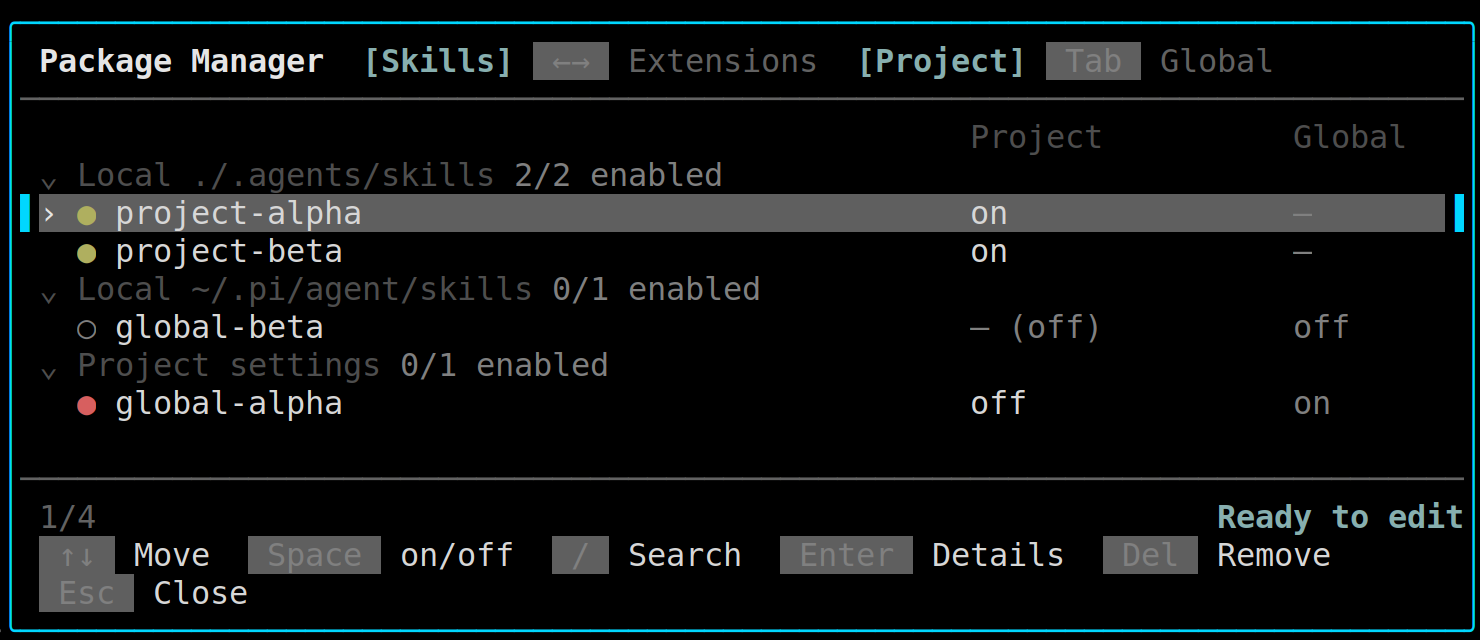
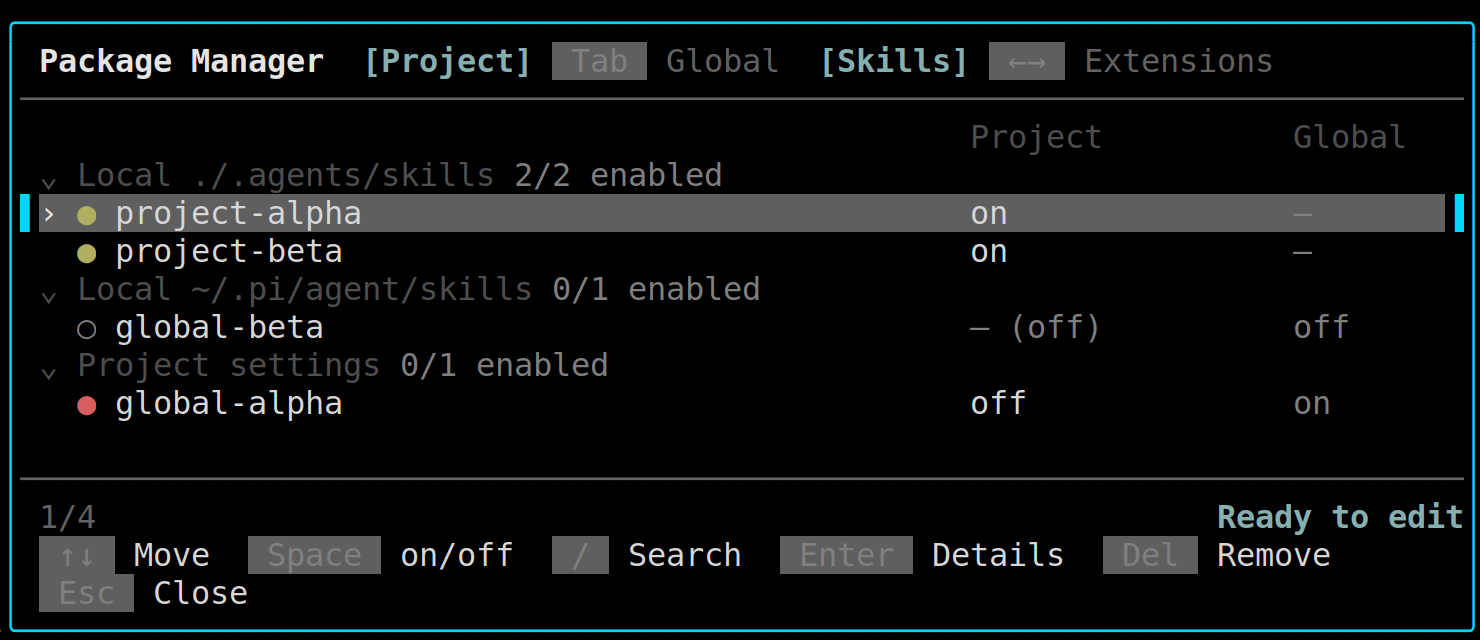
Put scope selection first in the header
Show Project/Global with its Tab key before Skills/Extensions and arrow keys.

Changed region(s): [[0.2486, 0.0625, 0.8703, 0.125]]

diff --git a/src/ui.ts b/src/ui.ts
@@ -172,9 +172,9 @@ export class PackageManagerComponent implements Focusable {
 		const projectScope = label(project, this.model.scope === "project");
 		const globalScope = label(global, this.model.scope === "global");
 		const title = ` ${this.theme.bold("Package Manager")}  `;
-		const withKeys = `${title}${skills} ${this.keycap("←→")} ${extensions}  ${projectScope} ${this.keycap("Tab")} ${globalScope}`;
+		const withKeys = `${title}${projectScope} ${this.keycap("Tab")} ${globalScope}  ${skills} ${this.keycap("←→")} ${extensions}`;
 		if (visibleWidth(withKeys) <= inner) return withKeys;
-		return `${title}${skills} ${extensions}  ${projectScope} ${globalScope}`;
+		return `${title}${projectScope} ${globalScope}  ${skills} ${extensions}`;
 	}
 
 	private renderList(row: (content?: string) => string, lines: string[], inner: number): void {

diff --git a/test/ui.test.ts b/test/ui.test.ts
@@ -53,6 +53,12 @@ test("overlay rendering never exceeds the width requested by Pi", () => {
 	}
 });
 
+test("the header puts scope selection before resource type selection", () => {
+	const component = new PackageManagerComponent(model(), theme, keybindings, () => {}, () => {}, 3);
+	const header = component.render(120)[1]!;
+	assert.match(header, /\[Project\].*Tab.*Global.*\[Skills\].*←→.*Extensions/);
+});
+
 test("selected inherited resources use the readable text foreground", () => {
 	const taggedTheme = {
 		fg: (color: string, text: string) => `<${color}>${text}</${color}>`,

diff --git a/docs/requirements.md b/docs/requirements.md
@@ -93,7 +93,7 @@ pi 本身能识别 `~/.agents/skills`、项目 `.agents/skills`（向上到 git 
 - 管理器保持居中的小型 overlay：默认宽度 80、最小宽度 50、最大高度为终端的 80%、外边距 1；外层面板与选中资源行使用当前主题的 `borderAccent`，静态来源标题使用 `borderMuted`，容器内部保持终端默认背景。
 - 所有 UI 文案、状态和提示使用纯英文。
 - 列表行显示名称、状态、对齐的 Project / Global 状态列与简短来源；当前项使用紧凑单行 `selectedBg`、accent 左右边缘和 `›` 指针；`Enter` 打开资源详情卡，展示名称、skill description、完整路径、package、覆盖关系和诊断；详情页 `Enter` 与 `Esc` 返回列表。
-- 标题栏使用 `Package Manager   [Skills] ←→ Extensions   [Project] Tab Global` 的文本结构；当前选择使用 accent，`Tab` 与 `←→` 使用 dim 小按键标签；`←/→` 切换 Skills/Extensions，`Tab` 切换 Project/Global。
+- 标题栏使用 `Package Manager   [Project] Tab Global   [Skills] ←→ Extensions` 的文本结构；当前选择使用 accent，`Tab` 与 `←→` 使用 dim 小按键标签；`Tab` 切换 Project/Global，`←/→` 切换 Skills/Extensions。
 - `Project` 视图显示对齐的 `Project` 与 `Global` 状态列；标题栏高亮 Project，`Space` 修改 Project 状态。`Global` 视图只显示 Global 相关信息，标题栏高亮 Global，`Space` 修改 Global 状态；Global 状态列保持与 Project 视图相同的最右侧列位。内部宽度低于 64 列时，标题栏与状态列表使用 `P` / `G` 缩写。
 - 底部使用两层信息栏：状态行左侧显示当前位置 `6/24`，右侧显示编辑状态；工具栏使用按键标签展示资源操作，`Tab` 与 `←→` 仅在标题栏展示；工具栏显示 `[Space] on/off`；窄终端将工具栏自动换成两行并保留全部操作。
 - 切换视图时保留每个视图的搜索词、滚动位置与 pending 修改。
